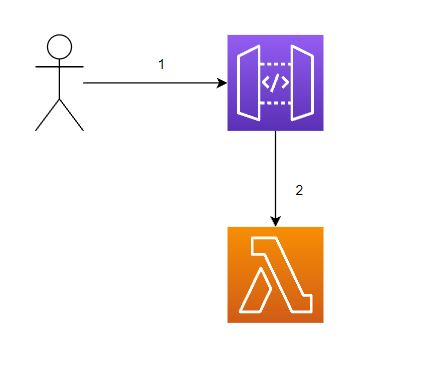
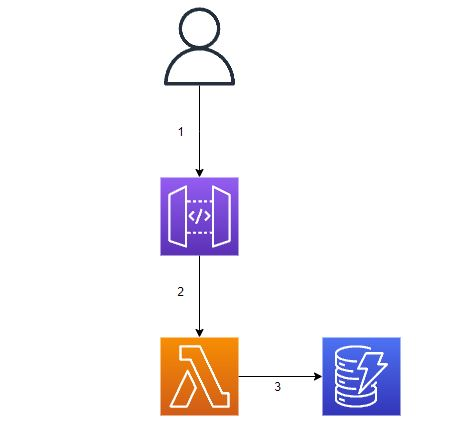
infrastructure should be researched and documented

diff --git a/docs/INFRASTRUCTURE.md b/docs/INFRASTRUCTURE.md
@@ -1,0 +1,28 @@
+# Infrastructure
+
+In this project we will be making use of AWS services and resources in order to build applications, or at least I will be coming from this mindset as I design the secure patterns. In this section we will go deeper into what we use to create and configure our architecture programmatically, and touch on the corresponding security checks that are performed at this stage of an application.
+
+## AWS CloudFormation
+
+CloudFormation is an AWS service that allows developers and architects alike deploy resources in the cloud programmatically through the use of templates written in JSON or YAML. The templates are so very aptly named "CloudFormation Templates" and they are deployed to the AWS service "AWS CloudFormation". CloudFormation's job is to take in these templates and convert them to infrastructure in AWS. I used these templates a lot in my professional life for building applications, mostly microservices. There is a limitation to using CloudFormation templates in that you have to know the YAML or JSON syntax. In the next section I will detail what we are using in this project.
+
+## AWS Cloud Development Kit (AWS CDK)
+
+The AWS Cloud Development Kit or CDK, is a library of API's that are used to create resources in AWS. As explained above, CloudFormation templates can be used to define architecture that will be deployed to AWS. The AWS CDK serves as a sort of wrapper for CloudFormation in that a developer is able to write code in their native languages (i.e. java, python, javascript) and then transformed into CloudFormation templates. My native language is TypeScript so you will see that the architecture (CDK code) and the business logic (Lambda Function code) will be in this language.
+
+## Microservices
+
+For this project we are aiming to build a simple microservice in AWS, in order to do so I think we should spend some time on what a microservice actually is. Microservice or microservice architecture is a building pattern that breaks an application up into it's component services. Each of these components are thought of as independent of each other, but are used in such a way to make up the business logic or flow of an application; Read more about microservices [here](https://aws.amazon.com/microservices/).
+
+## Baby Steps (Simple Example)
+
+Now that we know what building architecture we are planning to use for the project, let me give an example of what would be typically built in AWS as a microservice. Let's say I own a cereal rating website, and there are a ton of features and functions of this site. One feature of this site is the ability to rate a cereal from 0-10, and this feature is the microservice we are going to blow up and take a look at. If you open this image up in a new tab [here](../docs//Images//microservice.JPG) you will see a flow diagram with 3 steps.
+
+1. User rates a cereal between 0-10 on RateMyCereal.com
+1. The rating is bundled up in an http request and sent to API Gateway
+1. API Gateway receives the request and triggers a lambda to run
+   - Lambda has business logic to take the rating and save it to the cereal rating database
+
+## Constructs
+
+This example of a microservice above is just one feature of my cereal rating application, one of hundreds of things I can have the application do for the user. All of the other actions that one can think of like, changing password, changing avatar, rating or commenting on a cereal are all possible microservices that are built by the application engineers. A lot of these microservices are made up of the same components (Lambda, Dynamo, API Gateway) so because of this we will be building out applications out of reusable architecture components or constructs. Each construct will lay out a basic resource in AWS that a user can import into their stack or application and modify to suit their needs.
